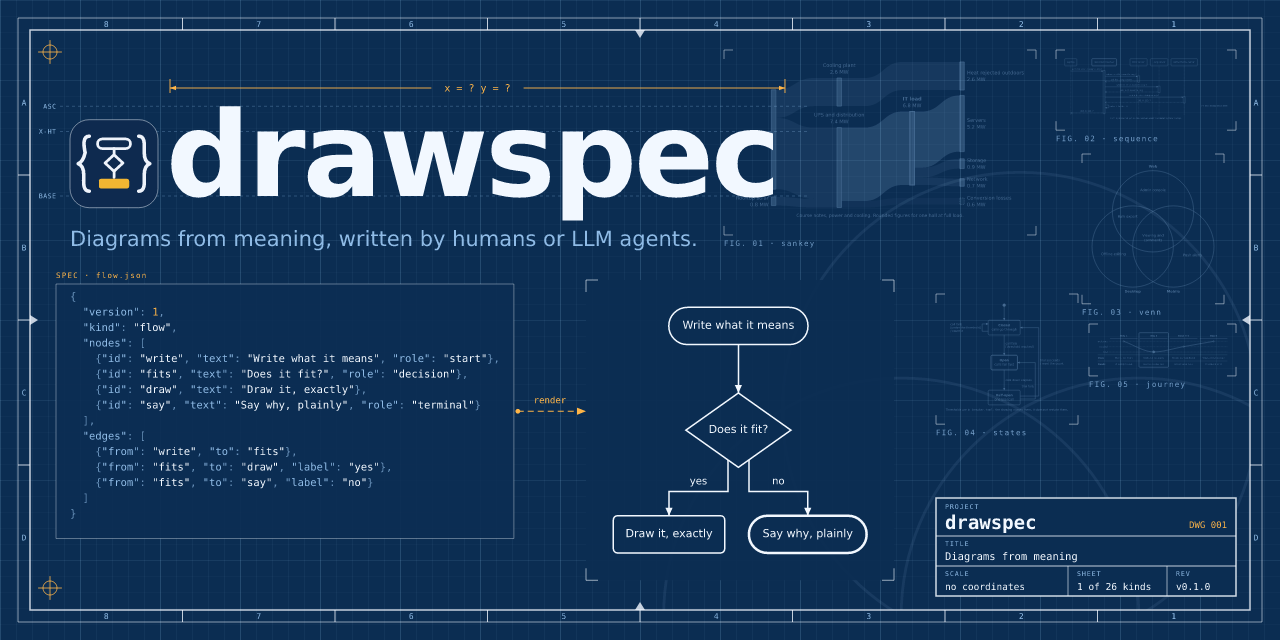
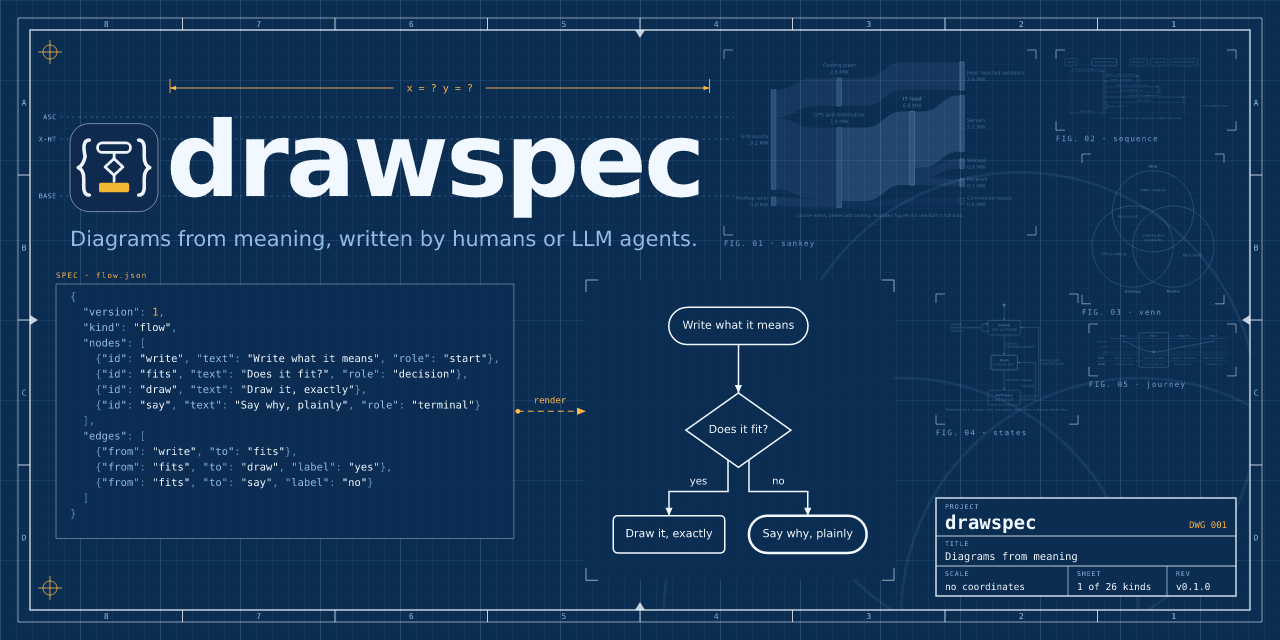
docs: size the wordmark so it clears the sankey plate
Claude-Session: https://claude.ai/code/session_01QwsxTccJpZ6TMCY29idEh5

Changed region(s): [[0.0312, 0.1562, 0.625, 0.3438], [0.375, 0.125, 0.4062, 0.1562], [0.3125, 0.125, 0.3438, 0.1562]]

diff --git a/tools/hero.py b/tools/hero.py
@@ -404,7 +404,7 @@ def compose() -> str:
 
     # The wordmark, with a dimension line over it that measures nothing.
     tile, tile_gap = 88, 12
-    guide_x, mark_y, mark_size = 70, 196, 118
+    guide_x, mark_y, mark_size = 70, 196, 104
     mark_x = guide_x + tile + tile_gap
     mark_w = METRICS.width("drawspec", mark_size, "sans", "bold") + 7 * -3
     parts.append(dimension(mark_x, mark_x + mark_w, 88, "x = ?   y = ?"))
